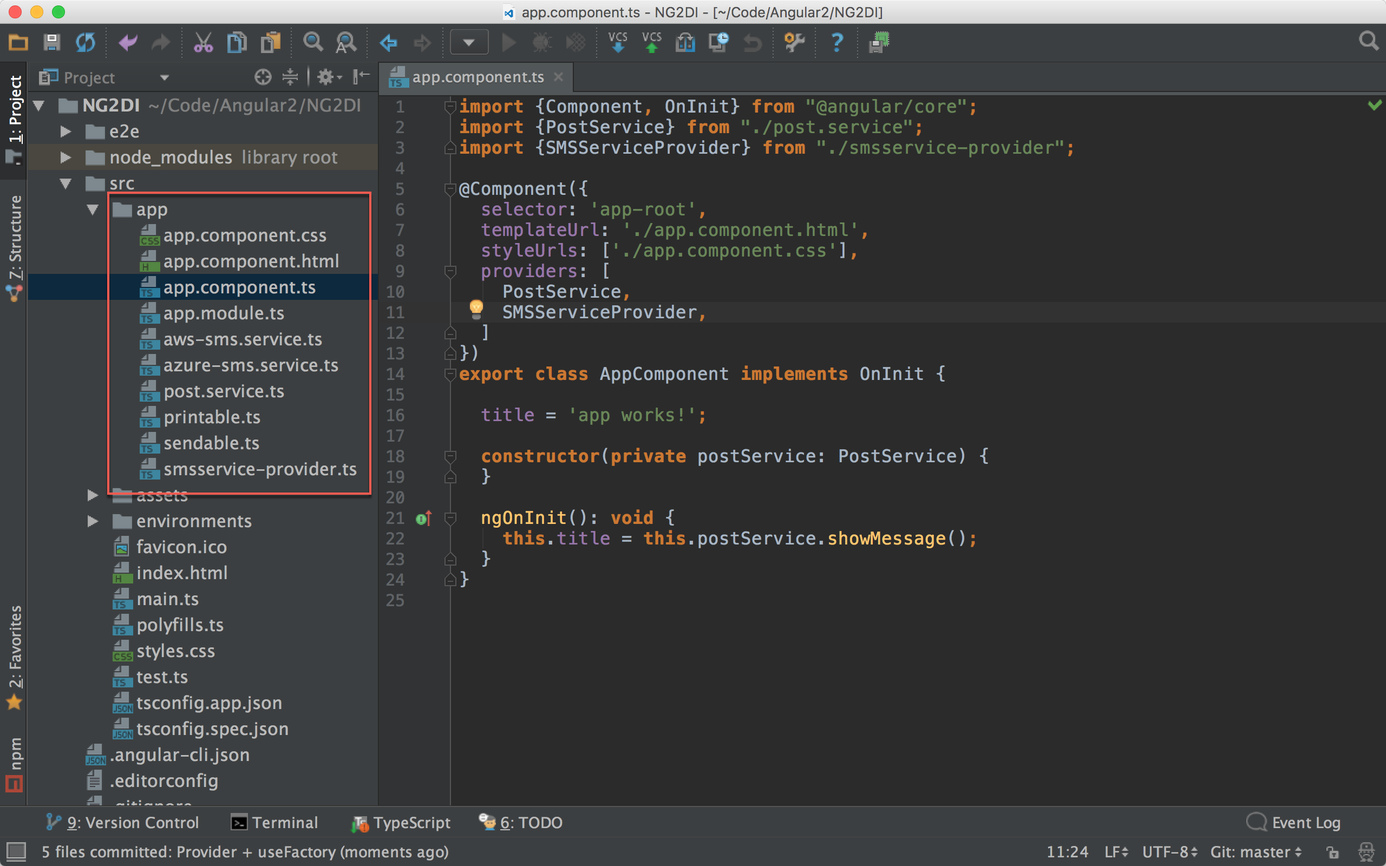
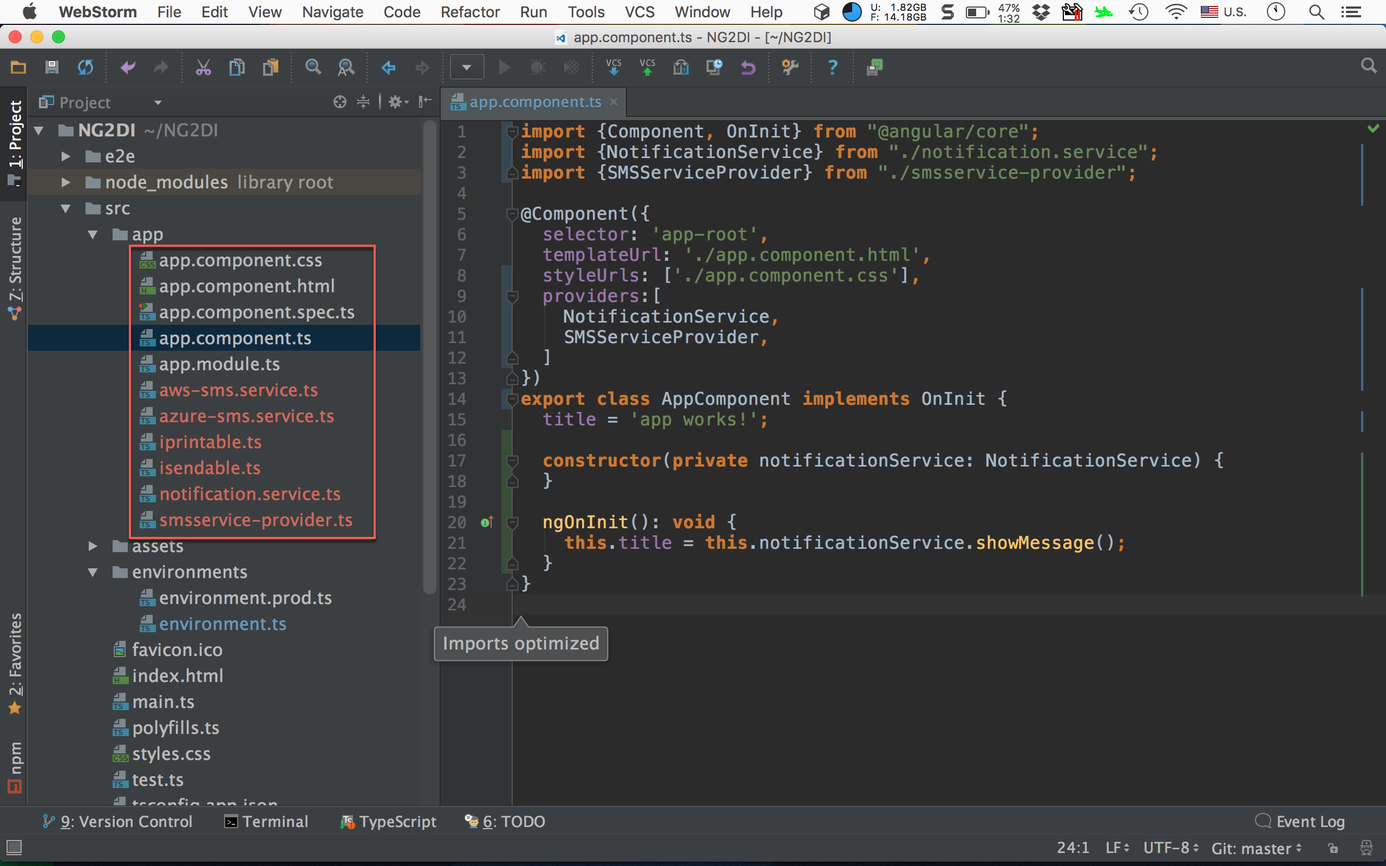
Site updated: 2017-03-07 23:19:28

diff --git a/angular/angular-di/index.html b/angular/angular-di/index.html
@@ -17,7 +17,7 @@
 <meta property="og:site_name" content="點燈坊">
 <meta property="og:description" content="讓前端也能使用後端常用的開發技巧">
 <meta property="og:image" content="http://oomusou.io/images/feature/logo.png">
-<meta property="og:updated_time" content="2017-03-06T16:11:48.000Z">
+<meta property="og:updated_time" content="2017-03-07T15:18:40.000Z">
 <meta name="twitter:card" content="summary">
 <meta name="twitter:title" content="深入探討 Angular 的 DI 與 Provider">
 <meta name="twitter:description" content="讓前端也能使用後端常用的開發技巧">
@@ -102,18 +102,18 @@
 	<!-- toc -->
 	<div id="postTOC">
 		<span class="tocHeading">Contents</span>
-		<ol class="toc-article"><li class="toc-article-item toc-article-level-2"><a class="toc-article-link" href="#Version"><span class="toc-article-text">Version</span></a></li><li class="toc-article-item toc-article-level-2"><a class="toc-article-link" href="#為什麼需要_DI?"><span class="toc-article-text">為什麼需要 DI?</span></a><ol class="toc-article-child"><li class="toc-article-item toc-article-level-3"><a class="toc-article-link" href="#無_DI_版本"><span class="toc-article-text">無 DI 版本</span></a><ol class="toc-article-child"><li class="toc-article-item toc-article-level-4"><a class="toc-article-link" href="#Brittle"><span class="toc-article-text">Brittle</span></a></li><li class="toc-article-item toc-article-level-4"><a class="toc-article-link" href="#Inflexible"><span class="toc-article-text">Inflexible</span></a></li><li class="toc-article-item toc-article-level-4"><a class="toc-article-link" href="#Hard_to_Test"><span class="toc-article-text">Hard to Test</span></a></li></ol></li><li class="toc-article-item toc-article-level-3"><a class="toc-article-link" href="#有_DI_版本"><span class="toc-article-text">有 DI 版本</span></a><ol class="toc-article-child"><li class="toc-article-item toc-article-level-4"><a class="toc-article-link" href="#Robust"><span class="toc-article-text">Robust</span></a></li><li class="toc-article-item toc-article-level-4"><a class="toc-article-link" href="#Flexible"><span class="toc-article-text">Flexible</span></a></li><li class="toc-article-item toc-article-level-4"><a class="toc-article-link" href="#Testable"><span class="toc-article-text">Testable</span></a></li></ol></li></ol></li><li class="toc-article-item toc-article-level-2"><a class="toc-article-link" href="#DI_搭配工廠模式"><span class="toc-article-text">DI 搭配工廠模式</span></a></li><li class="toc-article-item toc-article-level-2"><a class="toc-article-link" href="#Angular_的_Provider"><span class="toc-article-text">Angular 的 Provider</span></a></li><li class="toc-article-item toc-article-level-2"><a class="toc-article-link" href="#Provider_搭配_Interface"><span class="toc-article-text">Provider 搭配 Interface</span></a></li><li class="toc-article-item toc-article-level-2"><a class="toc-article-link" href="#Provider_搭配_useFactory"><span class="toc-article-text">Provider 搭配 useFactory</span></a></li><li class="toc-article-item toc-article-level-2"><a class="toc-article-link" href="#重構_Service"><span class="toc-article-text">重構 Service</span></a></li><li class="toc-article-item toc-article-level-2"><a class="toc-article-link" href="#Conclusion"><span class="toc-article-text">Conclusion</span></a></li><li class="toc-article-item toc-article-level-2"><a class="toc-article-link" href="#Reference"><span class="toc-article-text">Reference</span></a></li></ol>
+		<ol class="toc-article"><li class="toc-article-item toc-article-level-2"><a class="toc-article-link" href="#Motivation"><span class="toc-article-text">Motivation</span></a></li><li class="toc-article-item toc-article-level-2"><a class="toc-article-link" href="#Version"><span class="toc-article-text">Version</span></a></li><li class="toc-article-item toc-article-level-2"><a class="toc-article-link" href="#為什麼需要_DI?"><span class="toc-article-text">為什麼需要 DI?</span></a><ol class="toc-article-child"><li class="toc-article-item toc-article-level-3"><a class="toc-article-link" href="#無_DI_版本"><span class="toc-article-text">無 DI 版本</span></a><ol class="toc-article-child"><li class="toc-article-item toc-article-level-4"><a class="toc-article-link" href="#Brittle"><span class="toc-article-text">Brittle</span></a></li><li class="toc-article-item toc-article-level-4"><a class="toc-article-link" href="#Inflexible"><span class="toc-article-text">Inflexible</span></a></li><li class="toc-article-item toc-article-level-4"><a class="toc-article-link" href="#Hard_to_Test"><span class="toc-article-text">Hard to Test</span></a></li></ol></li><li class="toc-article-item toc-article-level-3"><a class="toc-article-link" href="#有_DI_版本"><span class="toc-article-text">有 DI 版本</span></a><ol class="toc-article-child"><li class="toc-article-item toc-article-level-4"><a class="toc-article-link" href="#Robust"><span class="toc-article-text">Robust</span></a></li><li class="toc-article-item toc-article-level-4"><a class="toc-article-link" href="#Flexible"><span class="toc-article-text">Flexible</span></a></li><li class="toc-article-item toc-article-level-4"><a class="toc-article-link" href="#Testable"><span class="toc-article-text">Testable</span></a></li></ol></li></ol></li><li class="toc-article-item toc-article-level-2"><a class="toc-article-link" href="#DI_搭配工廠模式"><span class="toc-article-text">DI 搭配工廠模式</span></a></li><li class="toc-article-item toc-article-level-2"><a class="toc-article-link" href="#Angular_的_Provider"><span class="toc-article-text">Angular 的 Provider</span></a></li><li class="toc-article-item toc-article-level-2"><a class="toc-article-link" href="#Provider_搭配_Interface"><span class="toc-article-text">Provider 搭配 Interface</span></a></li><li class="toc-article-item toc-article-level-2"><a class="toc-article-link" href="#Provider_搭配_useFactory"><span class="toc-article-text">Provider 搭配 useFactory</span></a></li><li class="toc-article-item toc-article-level-2"><a class="toc-article-link" href="#重構_Service"><span class="toc-article-text">重構 Service</span></a></li><li class="toc-article-item toc-article-level-2"><a class="toc-article-link" href="#Conclusion"><span class="toc-article-text">Conclusion</span></a></li><li class="toc-article-item toc-article-level-2"><a class="toc-article-link" href="#Reference"><span class="toc-article-text">Reference</span></a></li></ol>
     </div>
 
 	<!-- content -->
 	<div class="mypage">		
-	    <p>DI 與 service provider 是 Laravel 的招牌，因為 Angular 亦提供 DI 與 provider，所以很好奇 Angular 是否能實現 Laravel 風格的 DI 與 service provider。</p>
+	    <p>DI (Dependency Injection) 對於很多前端開發者是個陌生的名詞，畢竟以前沒有 DI 時，也沒有什麼東西寫不出來，為什麼 Angular 要全面提供 DI 與 provider 呢？</p>
 <a id="more"></a>
+<h2 id="Motivation">Motivation</h2><p>DI 與 service provider 是 Laravel 的招牌，因為 Angular 亦提供 DI 與 provider，所以很好奇 Angular 是否能實現 Laravel 風格的 DI 與 service provider。</p>
 <h2 id="Version">Version</h2><p>Angular CLI 1.0.0-rc.0</p>
 <p>Angular 2.4.9</p>
 <p>WebStorm 2016.3.3</p>
-<h2 id="為什麼需要_DI?">為什麼需要 DI?</h2><p>DI (Dependency Injection) 對於很多前端開發者是個陌生的名詞，畢竟以前沒有 DI 時，也沒有什麼東西寫不出來，為什麼 Angular 要全面提供 DI 與 provider 呢？</p>
-<p>我們先來建立兩個簡單的 service，來觀察有用 DI 與沒用 DI 的差異。</p>
+<h2 id="為什麼需要_DI?">為什麼需要 DI?</h2><p>我們先來建立兩個簡單的 service，來觀察有用 DI 與沒用 DI 的差異。</p>
 <h3 id="無_DI_版本">無 DI 版本</h3><p><strong>NotificationService</strong></p>
 <figure class="highlight typescript"><table><tr><td class="gutter"><pre><span class="line">1</span><br><span class="line">2</span><br><span class="line">3</span><br><span class="line">4</span><br><span class="line">5</span><br><span class="line">6</span><br><span class="line">7</span><br><span class="line">8</span><br><span class="line">9</span><br><span class="line">10</span><br><span class="line">11</span><br><span class="line">12</span><br><span class="line">13</span><br><span class="line">14</span><br></pre></td><td class="code"><pre><span class="line"><span class="keyword">import</span> &#123;SMSService&#125; from <span class="string">'./sms.service'</span>;</span><br><span class="line"></span><br><span class="line"><span class="keyword">export</span> <span class="keyword">class</span> NotificationService &#123;</span><br><span class="line"></span><br><span class="line">  <span class="keyword">private</span> smsService : SMSService;</span><br><span class="line"></span><br><span class="line">  <span class="constructor"><span class="keyword">constructor</span>() </span>&#123;</span><br><span class="line">    <span class="keyword">this</span>.smsService = <span class="keyword">new</span> SMSService();</span><br><span class="line">  &#125;</span><br><span class="line"></span><br><span class="line">  showMessage() : <span class="built_in">string</span> &#123;</span><br><span class="line">    <span class="keyword">return</span> <span class="keyword">this</span>.smsService.sendMessage();</span><br><span class="line">  &#125;</span><br><span class="line">&#125;</span><br></pre></td></tr></table></figure>
 <p><code>NotificationService</code> 的 <code>showMessage()</code> 需要使用到 <code>SMSService</code> 的 <code>sendMessage()</code>，因此我們在 constructor 內建立 <code>SMSService</code>  。</p>
@@ -133,7 +133,7 @@
 <blockquote>
 <p>在一個  service 內直接去 new 其他 service，就類似主機板將記憶體直接焊死 on board，想要擴充都無法擴充，因此說其為 <strong><em>Inflexible</em></strong>。</p>
 </blockquote>
-<h4 id="Hard_to_Test">Hard to Test</h4><p>當我們想對 <code>NotificationService</code> 做單元測試時，由於 <code>NotificationService</code> 相依了 <code>SMSService</code>，因此 <code>SMSService</code> 的所有行為將會影響 <code>NotificationService</code>，如 <code>SMSServce</code> 可能是非同步，可能每次都要收費，但這些都不是我們對 <code>NotificationService</code> 單元測試想要測試的，因此希望對 <code>SMSService</code> 加以隔離，單純測試 <code>NotificationService</code> 的行為。</p>
+<h4 id="Hard_to_Test">Hard to Test</h4><p>當我們想對 <code>NotificationService</code> 做單元測試時，由於 <code>NotificationService</code> 相依了 <code>SMSService</code>，因此 <code>SMSService</code> 的所有行為將會影響 <code>NotificationService</code>，如 <code>SMSServce</code> 可能是非同步，可能每次都要收費，但這些都不是我們對 <code>NotificationService</code> 單元測試想做的，因此希望對 <code>SMSService</code> 加以隔離，單純測試 <code>NotificationService</code> 的行為。</p>
 <p>儘管我們建立了 <code>假SMSService</code> 想取代 <code>真SMSService</code>，但因為 <code>SMSService</code> 被 <code>NotificationService</code> 建立在內部，我們沒有任何管道由外部將 <code>假SMSService</code>傳入，進而取代<code>真SMSService</code>。</p>
 <blockquote>
 <p>在一個 service 內直接去 new 其他 service，在單元測試時會無法在外部以假 service 取代，因此說其為 <strong>Hard to Test</strong>。</p>
@@ -150,7 +150,12 @@
 <p>16 行</p>
 <figure class="highlight typescript"><table><tr><td class="gutter"><pre><span class="line">1</span><br><span class="line">2</span><br><span class="line">3</span><br></pre></td><td class="code"><pre><span class="line"><span class="constructor"><span class="keyword">constructor</span>() </span>&#123;</span><br><span class="line">  <span class="keyword">this</span>.notificationService = <span class="keyword">new</span> NotificationService(<span class="keyword">new</span> SMSService)</span><br><span class="line">&#125;</span><br></pre></td></tr></table></figure>
 <p>因為改用 DI，所以在 new <code>NotificationService</code> 時，就必須將 <code>SMSService</code> 帶入。</p>
-<p>當使用 DI 後，<code>NotificationService</code> 與 <code>SMSService</code> 就解耦合了，<code>NotificatonService</code> 不再由內部決定其相依 service，而是由外部傳入的 service 所決定，這就是物件導向的<strong>依賴反轉原則</strong>。</p>
+<p>當使用 DI 後，<code>NotificationService</code> 與 <code>SMSService</code> 就解耦合了，<code>NotificatonService</code> 不再由內部直接相依 service，而是由外部傳入的 service 所決定，這就是物件導向的<strong>依賴反轉原則</strong>。</p>
+<blockquote>
+<p>依賴反轉原則</p>
+<p>抽象不要依賴細節，細節要依賴抽象。</p>
+<p>高階模組不應該依賴低階模組，低階模組應該由高階模組決定其依賴。</p>
+</blockquote>
 <p> <code>NotificationService</code> 使用 DI 這種寫法有 3 大優點：<strong><em>Robut、Flexible、Testable</em></strong>。</p>
 <h4 id="Robust">Robust</h4><p>若 <code>SMSService</code> 的 constructor 新增了參數 :</p>
 <p><strong>SMSService</strong></p>
@@ -180,12 +185,18 @@
 <p>建立假的 <code>MockSMSService</code>，並繼承原本的 <code>SMSService</code>，將原本的 <code>printMessage()</code> 與 <code>sendMessage()</code> 加以 override，換成假的簡訊服務。</p>
 <p><strong>NotificationServiceTest</strong></p>
 <figure class="highlight typescript"><table><tr><td class="gutter"><pre><span class="line">1</span><br></pre></td><td class="code"><pre><span class="line"><span class="keyword">let</span> notificationService = <span class="keyword">new</span> NotificationService(<span class="keyword">new</span> MockSMSService());</span><br></pre></td></tr></table></figure>
-<p>單元測試時，因為物件導向的<strong>里氏替換原則</strong>，可使用 <code>MockService</code> 取代 <code>SMSService</code>，如此就能完全隔離原本 <code>SMSService</code> 的所有功能，只執行我們假 service 的所有功能。</p>
+<p>單元測試時，因為物件導向的<strong>里氏替換原則</strong>，可使用 <code>MockService</code> 取代 <code>SMSService</code>，如此就能完全隔離原本 <code>SMSService</code> ，只執行我們的假 service 的所有功能。</p>
 <blockquote>
+<p>里氏替換原則</p>
+<p>所有的父類別都可以由子類別代替，但子類別不一定能用父類別代替。</p>
 <p>Service 單元測試時，只要建立其相依 service 的假 service，並加以注入，如此就能隔離原本相依 service 的所有功能，因此說其為 <strong><em>Testable</em></strong>。</p>
 <p>DI 只是一種程式風格，將相依 service 改由外界透過 constructor 注入，而不是在內部自己用 new 產生。</p>
 </blockquote>
 <h2 id="DI_搭配工廠模式">DI 搭配工廠模式</h2><p>DI 雖然對於 service 本身很有利，無論其相 service 如何修改，service 本身都不用修改，也就是物件導向的<strong>開放封閉原則</strong>，但對於使用 service 的 component 卻很辛苦。</p>
+<blockquote>
+<p>開放封閉原則</p>
+<p>對於擴展是開放的，對於修改是封閉的。</p>
+</blockquote>
 <p><strong>AppComponent</strong></p>
 <figure class="highlight typescript"><table><tr><td class="gutter"><pre><span class="line">1</span><br><span class="line">2</span><br><span class="line">3</span><br><span class="line">4</span><br><span class="line">5</span><br><span class="line">6</span><br><span class="line">7</span><br><span class="line">8</span><br></pre></td><td class="code"><pre><span class="line"><span class="keyword">export</span> <span class="keyword">class</span> AppComponent <span class="keyword">implements</span> OnInit&#123;</span><br><span class="line"></span><br><span class="line">  <span class="keyword">private</span> notificationService: NotificationService;</span><br><span class="line"></span><br><span class="line">  <span class="constructor"><span class="keyword">constructor</span>() </span>&#123;</span><br><span class="line">    <span class="keyword">this</span>.notificationService = <span class="keyword">new</span> NotificationService(<span class="keyword">new</span> SMSService);</span><br><span class="line">  &#125;</span><br><span class="line">&#125;</span><br></pre></td></tr></table></figure>
 <p>Component 必須使用 <code>new NotificationService(new SMSService)</code> 這種巢狀的方式才能建立 service，若相依 service 有更多層，則 new 的寫法將相當恐怖。</p>
@@ -199,8 +210,13 @@
 <p>16 行</p>
 <figure class="highlight typescript"><table><tr><td class="gutter"><pre><span class="line">1</span><br><span class="line">2</span><br><span class="line">3</span><br></pre></td><td class="code"><pre><span class="line"><span class="constructor"><span class="keyword">constructor</span>() </span>&#123;</span><br><span class="line">  <span class="keyword">this</span>.notificationService = NotificationServiceFactory.createNotificationService();</span><br><span class="line">&#125;</span><br></pre></td></tr></table></figure>
 <p>原本在 constructor 的 new 改用 <code>NotificationServiceFactory</code> 取代，最少日後其他 component 要建立 <code>NotificationService</code> 都改用 <code>NotificationServiceFactory</code>，不用再使用很恐怖的 new。</p>
-<p>不過這樣寫法仍有些問題。</p>
-<p>若 <code>NotificationService</code> 所依賴的 service 很多，或依賴的 service 層數很深，則 <code>NotificationServiceFactory</code> 的 method 數量將會爆炸，所以<strong>工廠模式</strong>也不算最完美的解法。</p>
+<p>不過這樣寫法仍有些問題：</p>
+<ul>
+<li>若將來有新增其他相依 service，則 <code>NotificationServiceFactory</code> 仍需要新增 <code>createService</code> method，所以並沒有完全符合<strong>開放封閉原則</strong>。</li>
+</ul>
+<ul>
+<li>若 <code>NotificationService</code> 所依賴的 service 很多，或依賴的 service 層數很深，則 <code>NotificationServiceFactory</code> 的 method 數量將會爆炸，所以<strong>工廠模式</strong>也不算最完美的解法。</li>
+</ul>
 <h2 id="Angular_的_Provider">Angular 的 Provider</h2><p>Angular 提供了 Provider，專門替我們建立 service，解決<strong>工廠模式</strong>所面臨的問題。</p>
 <p><img src="/images/angular/di/di000.svg" alt="di000"></p>
 <p>原本我們透過<strong>工廠模式</strong>自己處理 service 的 DI，現在改由 Angular 的 provider 接手。</p>
@@ -231,7 +247,7 @@
 <figure class="highlight typescript"><table><tr><td class="gutter"><pre><span class="line">1</span><br><span class="line">2</span><br><span class="line">3</span><br><span class="line">4</span><br></pre></td><td class="code"><pre><span class="line">providers: [</span><br><span class="line">  NotificationService,</span><br><span class="line">  SMSService</span><br><span class="line">]</span><br></pre></td></tr></table></figure>
 <p>Angular 會自動展開成</p>
 <figure class="highlight typescript"><table><tr><td class="gutter"><pre><span class="line">1</span><br><span class="line">2</span><br><span class="line">3</span><br><span class="line">4</span><br></pre></td><td class="code"><pre><span class="line">providers: [</span><br><span class="line">  &#123;provide: NotificationService, useClass: NotificationService&#125;,</span><br><span class="line">  &#123;provide: SMSService, useClass: SMSService&#125;</span><br><span class="line">]</span><br></pre></td></tr></table></figure>
-<p>當改用 provider 後，無論有相依的 service 個數有多少，相依的 service 層數有多深，我們不用為很多層的 new 傷腦筋，也不用為<strong>工廠模式</strong>的爆炸傷腦筋，只要記住一件事情：</p>
+<p>當改用 provider 後，無論有相依的 service 個數有多少，相依的 service 層數有多深，我們不用為很多層的 new 傷腦筋，也不用為<strong>工廠模式</strong>的沒有完全開放封閉與 method 爆炸傷腦筋，只要記住一件事情：</p>
 <blockquote>
 <p>有用到幾個 service，就在 providers 註冊幾個 service。</p>
 </blockquote>
@@ -242,7 +258,11 @@
 <figure class="highlight typescript"><table><tr><td class="gutter"><pre><span class="line">1</span><br><span class="line">2</span><br><span class="line">3</span><br><span class="line">4</span><br><span class="line">5</span><br><span class="line">6</span><br><span class="line">7</span><br><span class="line">8</span><br><span class="line">9</span><br><span class="line">10</span><br><span class="line">11</span><br><span class="line">12</span><br><span class="line">13</span><br><span class="line">14</span><br><span class="line">15</span><br><span class="line">16</span><br></pre></td><td class="code"><pre><span class="line"><span class="keyword">import</span> &#123;Injectable&#125; from <span class="string">'@angular/core'</span>;</span><br><span class="line"></span><br><span class="line">@Injectable()</span><br><span class="line"><span class="keyword">export</span> <span class="keyword">class</span> SMSService &#123;</span><br><span class="line"></span><br><span class="line">  <span class="constructor"><span class="keyword">constructor</span>() </span>&#123;</span><br><span class="line">  &#125;</span><br><span class="line"></span><br><span class="line">  printMessage(): <span class="built_in">void</span> &#123;</span><br><span class="line">    <span class="built_in">console</span>.log(<span class="string">'Print Message'</span>);</span><br><span class="line">  &#125;</span><br><span class="line"></span><br><span class="line">  sendMessage(): <span class="built_in">string</span> &#123;</span><br><span class="line">    <span class="keyword">return</span> <span class="string">'Send Message'</span>;</span><br><span class="line">  &#125;</span><br><span class="line">&#125;</span><br></pre></td></tr></table></figure>
 <p><strong>NotificationService</strong></p>
 <figure class="highlight typescript"><table><tr><td class="gutter"><pre><span class="line">1</span><br><span class="line">2</span><br><span class="line">3</span><br><span class="line">4</span><br><span class="line">5</span><br><span class="line">6</span><br><span class="line">7</span><br><span class="line">8</span><br><span class="line">9</span><br><span class="line">10</span><br><span class="line">11</span><br><span class="line">12</span><br><span class="line">13</span><br></pre></td><td class="code"><pre><span class="line"><span class="keyword">import</span> &#123;Injectable&#125; from <span class="string">'@angular/core'</span>;</span><br><span class="line"><span class="keyword">import</span> &#123;SMSService&#125; from <span class="string">'./sms.service'</span>;</span><br><span class="line"></span><br><span class="line">@Injectable()</span><br><span class="line"><span class="keyword">export</span> <span class="keyword">class</span> NotificationService &#123;</span><br><span class="line"></span><br><span class="line">  <span class="constructor"><span class="keyword">constructor</span>(private smsService: SMSService) </span>&#123;</span><br><span class="line">  &#125;</span><br><span class="line"></span><br><span class="line">  showMessage() : <span class="built_in">string</span> &#123;</span><br><span class="line">    <span class="keyword">return</span> <span class="keyword">this</span>.smsService.sendMessage();</span><br><span class="line">  &#125;</span><br><span class="line">&#125;</span><br></pre></td></tr></table></figure>
-<p>在 <code>NotificationService</code> 中，<code>showMessage()</code> 只使用了 <code>SMSService</code> 的 <code>sendMessage()</code>，卻需要相依整個 <code>SMSService</code>，若能讓 <code>NotificationService</code> 與 <code>SMSService</code> 之間的相依僅限於 <code>ISendable</code> interface，將大大降低 <code>NotificationService</code> 與 <code>SMSService</code> 之間的耦合。</p>
+<p>在 <code>NotificationService</code> 中，<code>showMessage()</code> 只使用了 <code>SMSService</code> 的 <code>sendMessage()</code>，卻需要相依整個 <code>SMSService</code>，若能讓 <code>NotificationService</code> 與 <code>SMSService</code> 之間的相依僅限於 <code>ISendable</code> interface，將大大降低 <code>NotificationService</code> 與 <code>SMSService</code> 之間的耦合，也就是物件導向的<strong>介面隔離原則</strong>。</p>
+<blockquote>
+<p>介面隔離原則</p>
+<p>用戶端程式碼不應該依賴它用不到的介面。</p>
+</blockquote>
 <p><strong><em>重構後</em></strong></p>
 <p><strong>IPrintable</strong></p>
 <figure class="highlight typescript"><table><tr><td class="gutter"><pre><span class="line">1</span><br><span class="line">2</span><br><span class="line">3</span><br></pre></td><td class="code"><pre><span class="line"><span class="keyword">export</span> <span class="interface"><span class="keyword">interface</span> IPrintable </span>&#123;</span><br><span class="line">  printMessage();</span><br><span class="line">&#125;</span><br></pre></td></tr></table></figure>
@@ -261,7 +281,7 @@
 <figure class="highlight typescript"><table><tr><td class="gutter"><pre><span class="line">1</span><br><span class="line">2</span><br><span class="line">3</span><br><span class="line">4</span><br><span class="line">5</span><br><span class="line">6</span><br><span class="line">7</span><br><span class="line">8</span><br><span class="line">9</span><br><span class="line">10</span><br><span class="line">11</span><br><span class="line">12</span><br><span class="line">13</span><br><span class="line">14</span><br><span class="line">15</span><br><span class="line">16</span><br><span class="line">17</span><br><span class="line">18</span><br><span class="line">19</span><br><span class="line">20</span><br><span class="line">21</span><br><span class="line">22</span><br><span class="line">23</span><br><span class="line">24</span><br><span class="line">25</span><br></pre></td><td class="code"><pre><span class="line"><span class="keyword">import</span> &#123;Component, OnInit&#125; from <span class="string">"@angular/core"</span>;</span><br><span class="line"><span class="keyword">import</span> &#123;NotificationService&#125; from <span class="string">"./notification.service"</span>;</span><br><span class="line"><span class="keyword">import</span> &#123;SMSService&#125; from <span class="string">"./sms.service"</span>;</span><br><span class="line"><span class="keyword">import</span> &#123;ISendable&#125; from <span class="string">"./isendable"</span>;</span><br><span class="line"></span><br><span class="line">@Component(&#123;</span><br><span class="line">  selector: <span class="string">'app-root'</span>,</span><br><span class="line">  templateUrl: <span class="string">'./app.component.html'</span>,</span><br><span class="line">  styleUrls: [<span class="string">'./app.component.css'</span>],</span><br><span class="line">  providers: [</span><br><span class="line">    NotificationService,</span><br><span class="line">    &#123;provide: ISendable, useClass: SMSService&#125;</span><br><span class="line">  ]</span><br><span class="line">&#125;)</span><br><span class="line"><span class="keyword">export</span> <span class="keyword">class</span> AppComponent <span class="keyword">implements</span> OnInit &#123;</span><br><span class="line"></span><br><span class="line">  title = <span class="string">'app works!'</span>;</span><br><span class="line"></span><br><span class="line">  <span class="constructor"><span class="keyword">constructor</span>(private notificationService: NotificationService) </span>&#123;</span><br><span class="line">  &#125;</span><br><span class="line"></span><br><span class="line">  ngOnInit(): <span class="built_in">void</span> &#123;</span><br><span class="line">    <span class="keyword">this</span>.title = <span class="keyword">this</span>.notificationService.showMessage();</span><br><span class="line">  &#125;</span><br><span class="line">&#125;</span><br></pre></td></tr></table></figure>
 <p>10 行</p>
 <figure class="highlight typescript"><table><tr><td class="gutter"><pre><span class="line">1</span><br><span class="line">2</span><br><span class="line">3</span><br><span class="line">4</span><br></pre></td><td class="code"><pre><span class="line">providers: [</span><br><span class="line">  NotificationService,</span><br><span class="line">  &#123;provide: ISendable, useClass: SMSService&#125;</span><br><span class="line">]</span><br></pre></td></tr></table></figure>
-<p>原來的 <code>NotificationService</code> 不變，但 <code>SMSService</code> 需改成 <code>{provide: ISendable, useClass: SMSService}</code>，告訴 Angular 當遇到 <code>ISendable</code> interface 時，請注入 <code>SMSService</code> 這個 service。</p>
+<p>原來的 <code>NotificationService</code> 不變，但 <code>SMSService</code> 需改成 <code>{provide: ISendable, useClass: SMSService}</code>，告訴 Angular 當遇到 <code>ISendable</code> interface 時，請注入 <code>SMSService</code> 。</p>
 <p>當 <code>NotificationService</code> 與 <code>SMSService</code> 的相依僅限於 <code>ISendable</code> interface 時，大大降低 <code>NotificationService</code> 與 <code>SMService</code> 之間的耦合，也就是<strong>設計模式</strong>一書所說的：</p>
 <blockquote>
 <p>根據 interface 寫程式，不要根據 class 寫程式。</p>
@@ -286,9 +306,9 @@
 </blockquote>
 <p>這並不是 Angular 或 TypeScript 的錯，因為 JavaScript 本來就沒 interface，interface 為 TypeScript 所擴充，因此編譯後會找不到 interface。</p>
 <p>既然 interface 不能用，我們只能用些小技巧。</p>
-<p><strong>Printable</strong></p>
+<p><strong>IPrintable</strong></p>
 <figure class="highlight typescript"><table><tr><td class="gutter"><pre><span class="line">1</span><br><span class="line">2</span><br><span class="line">3</span><br></pre></td><td class="code"><pre><span class="line"><span class="keyword">export</span> abstract <span class="keyword">class</span> IPrintable &#123;</span><br><span class="line">  abstract printMessage();</span><br><span class="line">&#125;</span><br></pre></td></tr></table></figure>
-<p><strong>Senable</strong></p>
+<p><strong>ISenable</strong></p>
 <figure class="highlight typescript"><table><tr><td class="gutter"><pre><span class="line">1</span><br><span class="line">2</span><br><span class="line">3</span><br></pre></td><td class="code"><pre><span class="line"><span class="keyword">export</span> abstract <span class="keyword">class</span> ISendable &#123;</span><br><span class="line">  abstract sendMessage(): <span class="built_in">string</span>;</span><br><span class="line">&#125;</span><br></pre></td></tr></table></figure>
 <p>將 interface 全改成 abstract class。</p>
 <p>存檔後 provider 就正常了。</p>
@@ -307,7 +327,7 @@
 <figure class="highlight typescript"><table><tr><td class="gutter"><pre><span class="line">1</span><br><span class="line">2</span><br><span class="line">3</span><br><span class="line">4</span><br><span class="line">5</span><br><span class="line">6</span><br><span class="line">7</span><br></pre></td><td class="code"><pre><span class="line"><span class="keyword">import</span> &#123;AzureSMSService&#125; from <span class="string">"../app/azure-sms.service"</span>;</span><br><span class="line"><span class="keyword">import</span> &#123;AWSSMSService&#125; from <span class="string">"../app/aws-sms.service"</span>;</span><br><span class="line"></span><br><span class="line"><span class="keyword">export</span> <span class="keyword">const</span> environment = &#123;</span><br><span class="line">  production: <span class="literal">false</span>,</span><br><span class="line">  SMSService: AzureSMSService,</span><br><span class="line">&#125;;</span><br></pre></td></tr></table></figure>
 <p>在 <code>environment.ts</code> 增加 <code>SMSService</code> 設定，可在此設定要使用 <code>AzureSMSService</code> 或 <code>AWSSMSService</code>。</p>
 <blockquote>
-<p>一般我們會在設定檔使用字串做設定，因為 provider 主要就是用來建立 service，所以可以直接在設定檔內使用 service 的 class，就不必靠 reflection 將由字串建立 service，且還可受到 TypeScript 強型別的編譯保護。</p>
+<p>一般我們會在設定檔使用字串做設定，因為 provider 主要就是用來建立 service，所以可以直接在設定檔內使用 service 的 class，就不必靠 reflection 由字串建立 service，且還可受到 TypeScript 強型別的編譯保護。</p>
 </blockquote>
 <p><strong>SMSServiceProvider</strong></p>
 <figure class="highlight typescript"><table><tr><td class="gutter"><pre><span class="line">1</span><br><span class="line">2</span><br><span class="line">3</span><br><span class="line">4</span><br><span class="line">5</span><br><span class="line">6</span><br><span class="line">7</span><br></pre></td><td class="code"><pre><span class="line"><span class="keyword">import</span> &#123;ISendable&#125; from <span class="string">"./isendable"</span>;</span><br><span class="line"><span class="keyword">import</span> &#123;environment&#125; from <span class="string">"../environments/environment"</span>;</span><br><span class="line"></span><br><span class="line"><span class="keyword">export</span> <span class="keyword">let</span> SMSServiceProvider = &#123;</span><br><span class="line">  provide: Sendable,</span><br><span class="line">  useFactory: () =&gt; <span class="keyword">new</span> (environment.SMSService)</span><br><span class="line">&#125;;</span><br></pre></td></tr></table></figure>

diff --git a/hexo/md-overview/index.html b/hexo/md-overview/index.html
@@ -133,7 +133,7 @@
 <span class="xml"><span class="tag">&lt;<span class="title">http:</span>//<span class="attribute">oomusou.io</span>&gt;</span></span>
 [<span class="link_label">My Blog</span>](<span class="link_url">http://oomusou.io</span>)
 [<span class="link_label">My Email</span>](<span class="link_url">oomusou@gmail.com</span>)
-</code></pre><p><a href="&#109;&#x61;&#105;&#x6c;&#116;&#111;&#58;&#x6f;&#x6f;&#x6d;&#117;&#x73;&#111;&#117;&#64;&#x67;&#109;&#97;&#105;&#108;&#46;&#99;&#x6f;&#x6d;">&#x6f;&#x6f;&#x6d;&#117;&#x73;&#111;&#117;&#64;&#x67;&#109;&#97;&#105;&#108;&#46;&#99;&#x6f;&#x6d;</a><br><a href="http://oomusou.io">http://oomusou.io</a><br><a href="http://oomusou.io">My Blog</a><br><a href="oomusou@gmail.com">My Email</a></p>
+</code></pre><p><a href="&#109;&#x61;&#105;&#108;&#x74;&#x6f;&#x3a;&#111;&#x6f;&#x6d;&#x75;&#115;&#111;&#x75;&#x40;&#x67;&#109;&#x61;&#x69;&#108;&#x2e;&#99;&#x6f;&#109;">&#111;&#x6f;&#x6d;&#x75;&#115;&#111;&#x75;&#x40;&#x67;&#109;&#x61;&#x69;&#108;&#x2e;&#99;&#x6f;&#109;</a><br><a href="http://oomusou.io">http://oomusou.io</a><br><a href="http://oomusou.io">My Blog</a><br><a href="oomusou@gmail.com">My Email</a></p>
 <h2 id="圖片">圖片</h2><hr>
 <pre><code>![<span class="link_label">step1</span>](<span class="link_url">/images/md000.png</span>)
 </code></pre><p><img src="/images/hexo/md-overview/md000.png" alt="step1"></p>

diff --git a/index.html b/index.html
@@ -117,7 +117,7 @@
 	<div class="col-md-8">
   
   
-	<p>DI 與 service provider 是 Laravel 的招牌，因為 Angular 亦提供 DI 與 provider，所以很好奇 Angular 是否能實現 Laravel 風格的 DI 與 service provider。</p>
+	<p>DI (Dependency Injection) 對於很多前端開發者是個陌生的名詞，畢竟以前沒有 DI 時，也沒有什麼東西寫不出來，為什麼 Angular 要全面提供 DI 與 provider 呢？</p>
   	
     </div>
     <div class="col-md-10"></div>
